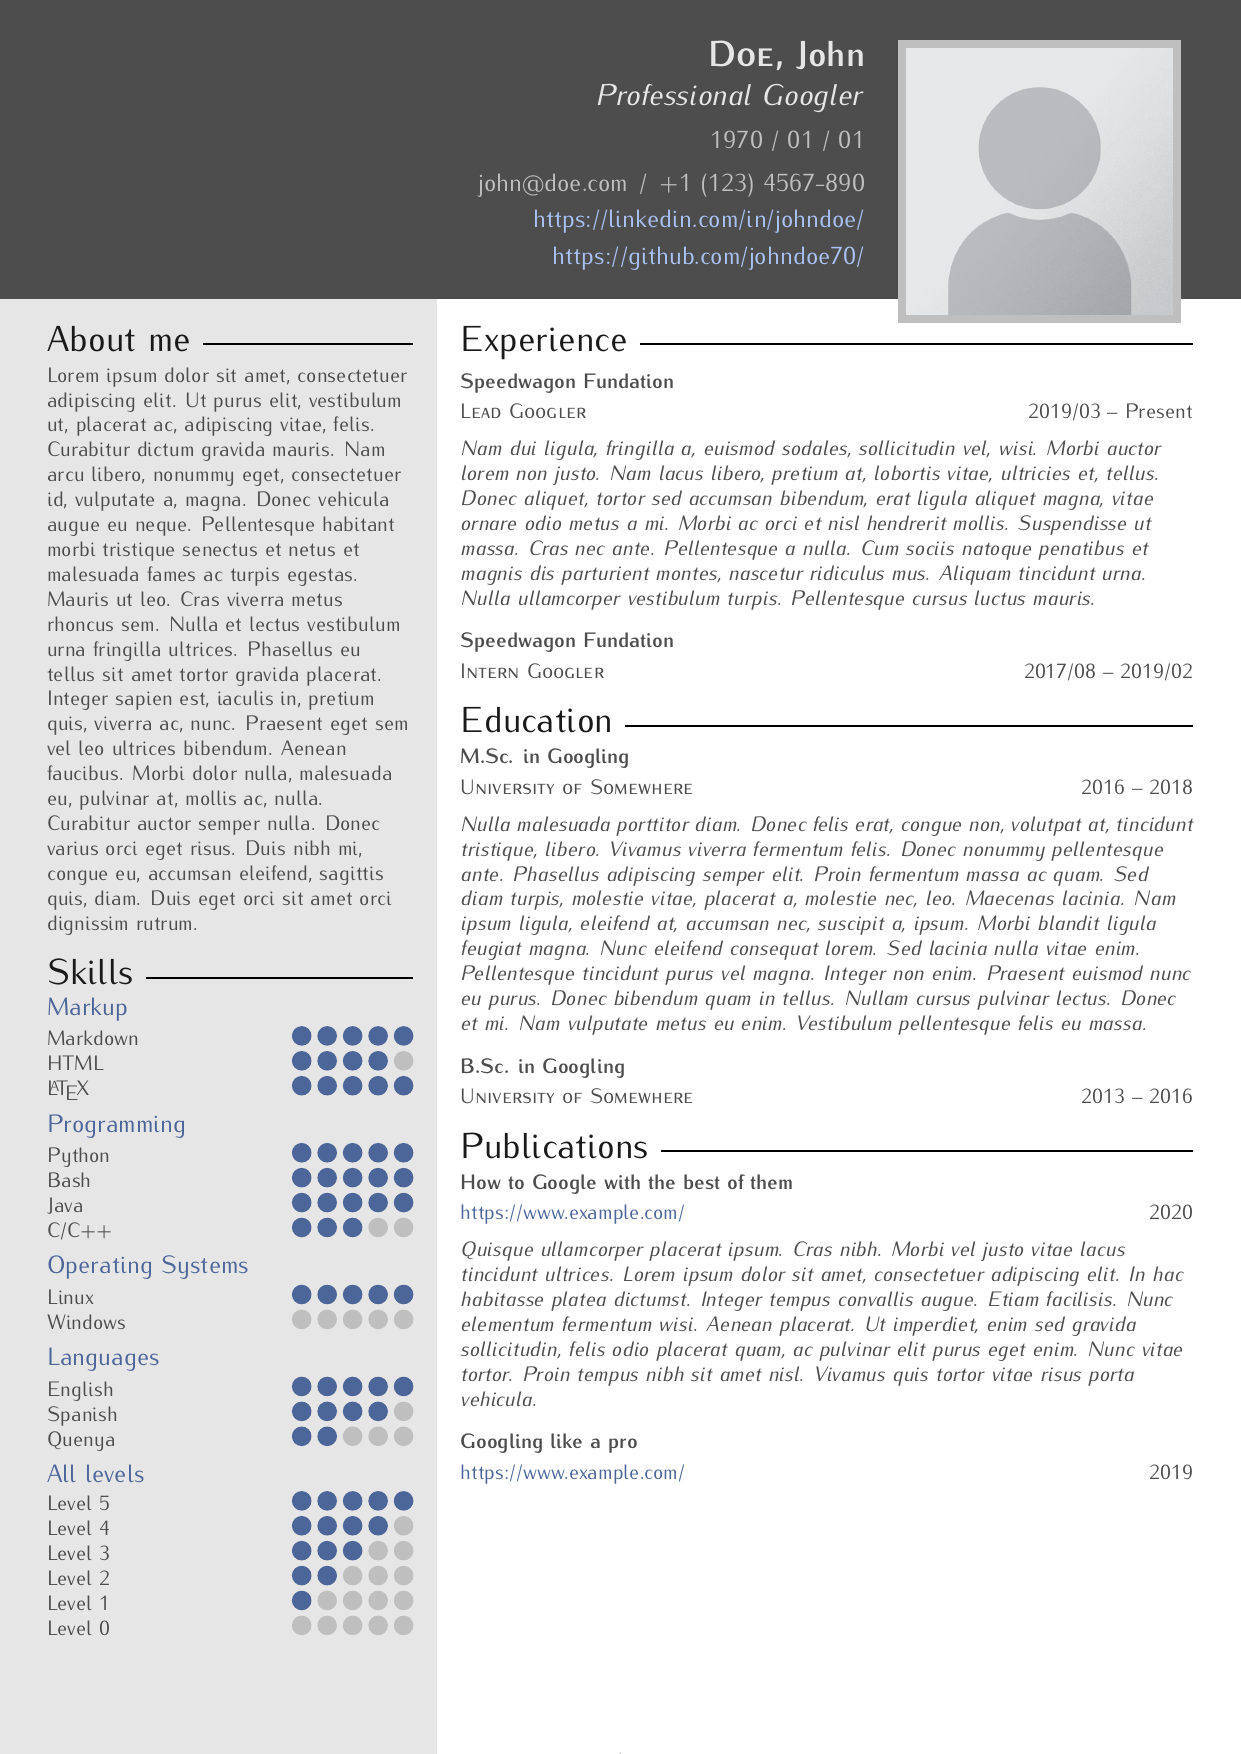
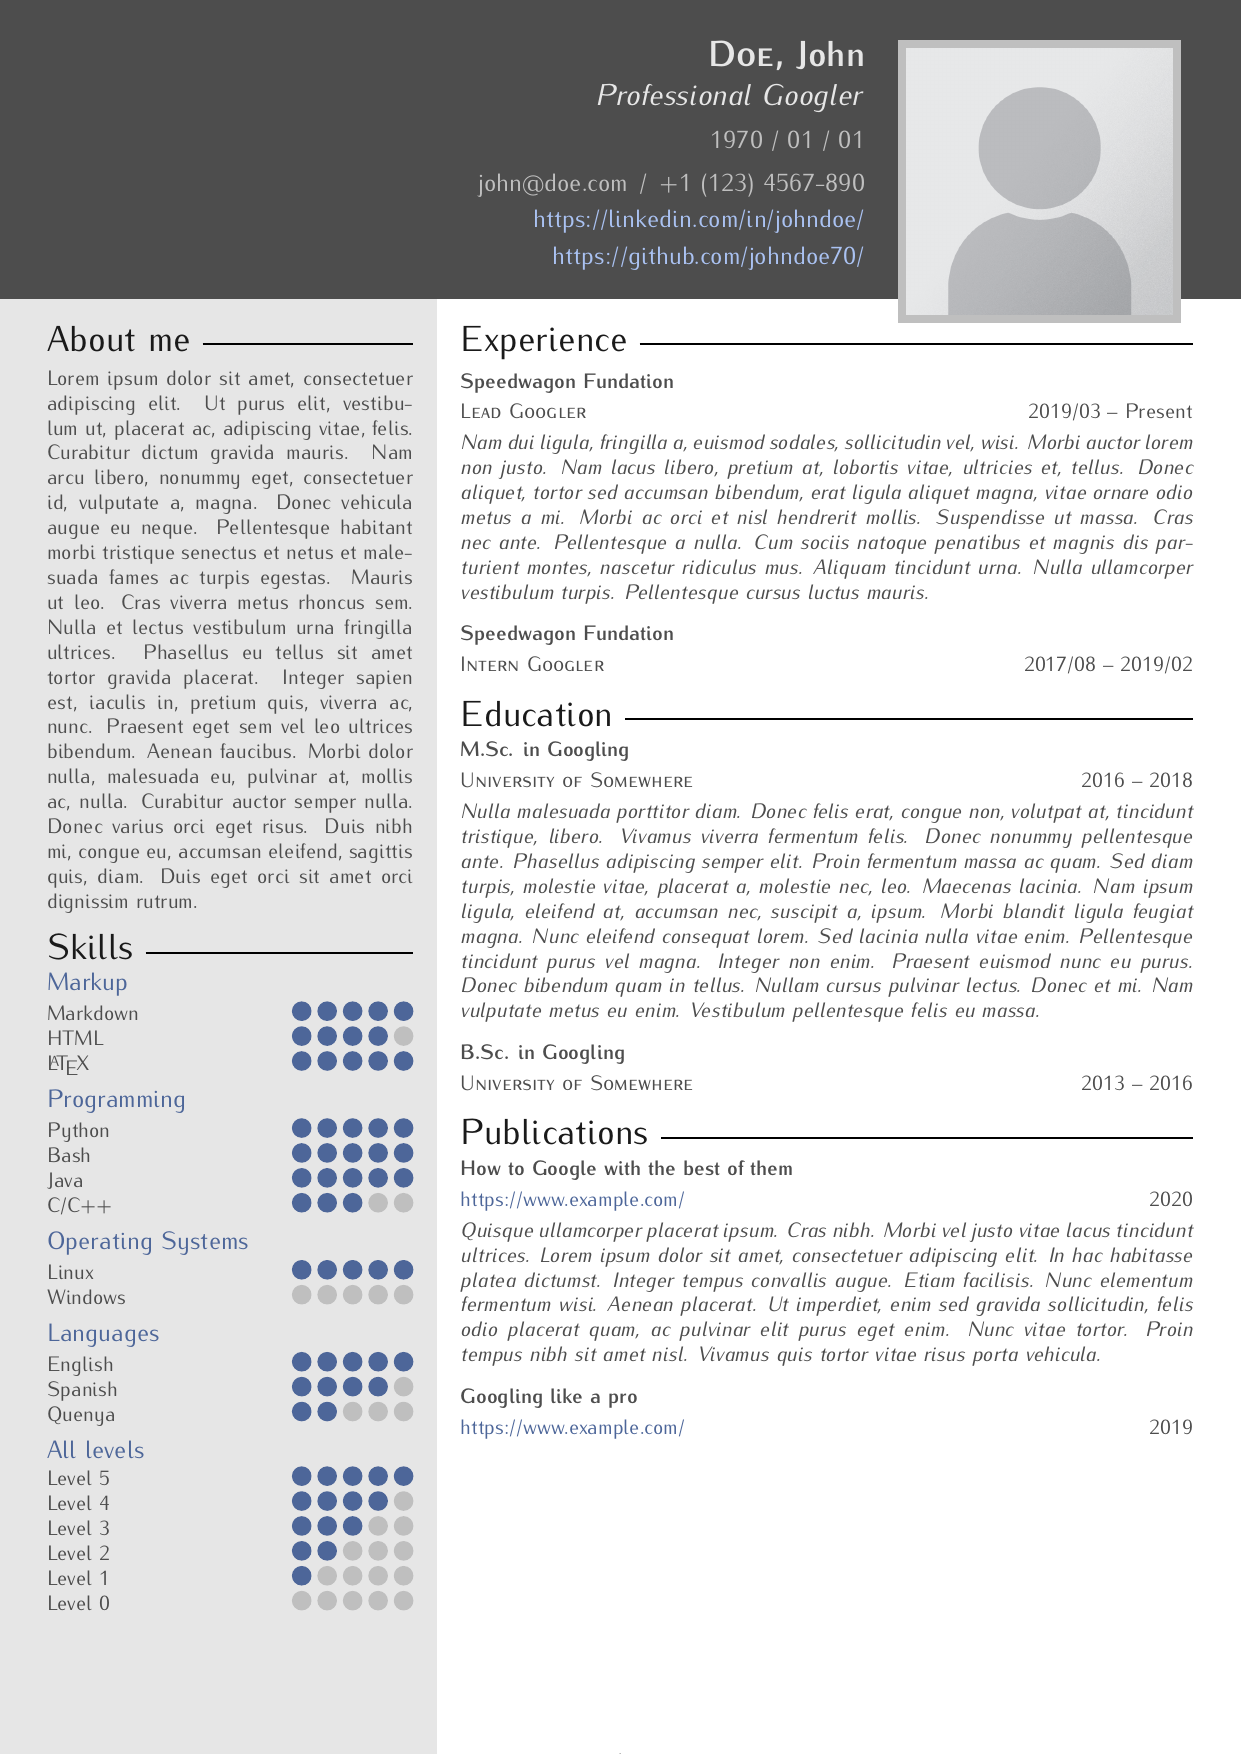
Justify content

diff --git a/README.md b/README.md
@@ -5,7 +5,7 @@
 <!-- Source:   https://github.com/kip93/resume/                              -->
 <!-- License:  BSD 3-Clause                                                  -->
 <!-- Created:  2020-09-27                                                    -->
-<!-- Updated:  2021-01-07                                                    -->
+<!-- Updated:  2021-08-25                                                    -->
 <!----------------------------------------------------------------------------->
 
 # My own LaTeX Résumé template
@@ -76,15 +76,16 @@ make any significant edits.<!-- i.e. May the force be with you. -->
 These are the dependencies for this project, as well as which versions they were
 used. Older versions might still work, but are untested.
 
- * [TeX Live](https://www.tug.org/texlive/) >= `2020` (or other TeX
+ * [TeX Live](https://www.tug.org/texlive/) >= `2021` (or other TeX
    distribution, with the packages defined beneath)
    * [etoolbox](https://ctan.org/pkg/etoolbox) >= `2.5k`
    * [pdfcomment](https://ctan.org/pkg/pdfcomment) >= `2.4a`
+   * [ragged2e](https://ctan.org/pkg/ragged2e) >= `3.0`
    * [textpos](https://ctan.org/pkg/textpos) >= `1.10`
-   * [TikZ](https://www.ctan.org/pkg/tikz) >= `3.1.7a`
+   * [TikZ](https://www.ctan.org/pkg/tikz) >= `3.1.9a`
    * [xcolor](https://ctan.org/pkg/xcolor) >= `2.12`
-   * [xstring](https://ctan.org/pkg/xstring) >= `1.83`
- * [Poppler utils](https://poppler.freedesktop.org/) >= `20.09` (only needed to
+   * [xstring](https://ctan.org/pkg/xstring) >= `1.84`
+ * [Poppler utils](https://poppler.freedesktop.org/) >= `21.08` (only needed to
    create the example screenshot)
  * [GNU Make](https://www.gnu.org/software/make/) >= `4.3` (only to be able to
    use the [Makefile](./Makefile) to build the example)
